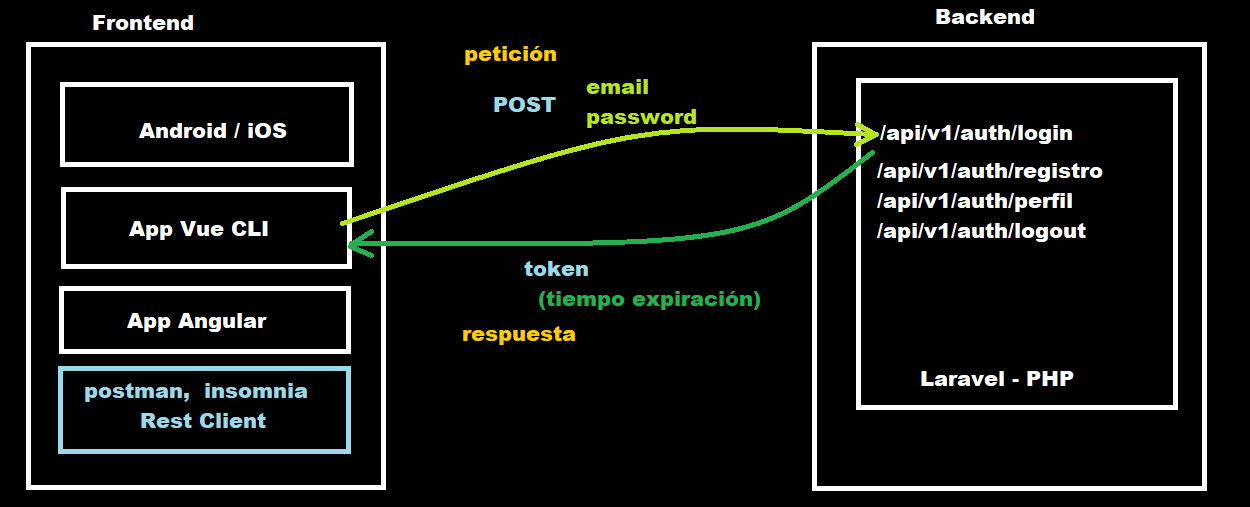
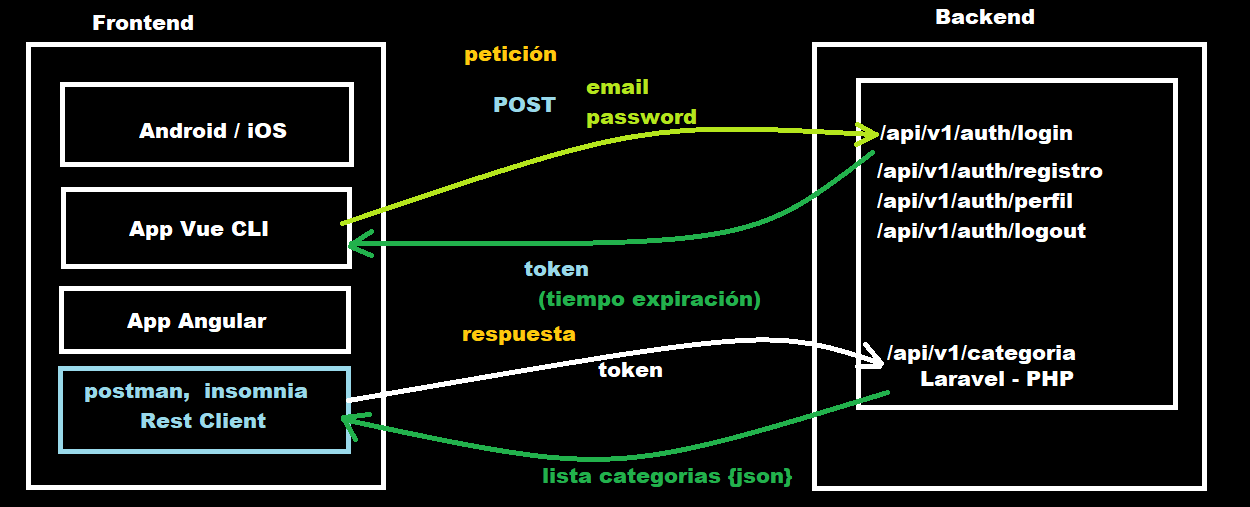
auth user

diff --git a/app/Http/Controllers/Api/AuthController.php b/app/Http/Controllers/Api/AuthController.php
@@ -25,6 +25,7 @@ class AuthController extends Controller
                 return response()->json([
                     "status" => 1,
                     "mensaje" => "Usuario logueado",
+                    "user" => $user,
                     "error" => false,
                     "access_token" => $token
                 ], 200);

diff --git a/routes/api.php b/routes/api.php
@@ -30,5 +30,6 @@ Route::middleware('auth:sanctum')->group(function(){
     // agregar las rutas de manera segura
 
     Route::apiResource("v1/categoria", CategoriaController::class);
-
+    
 });
+
